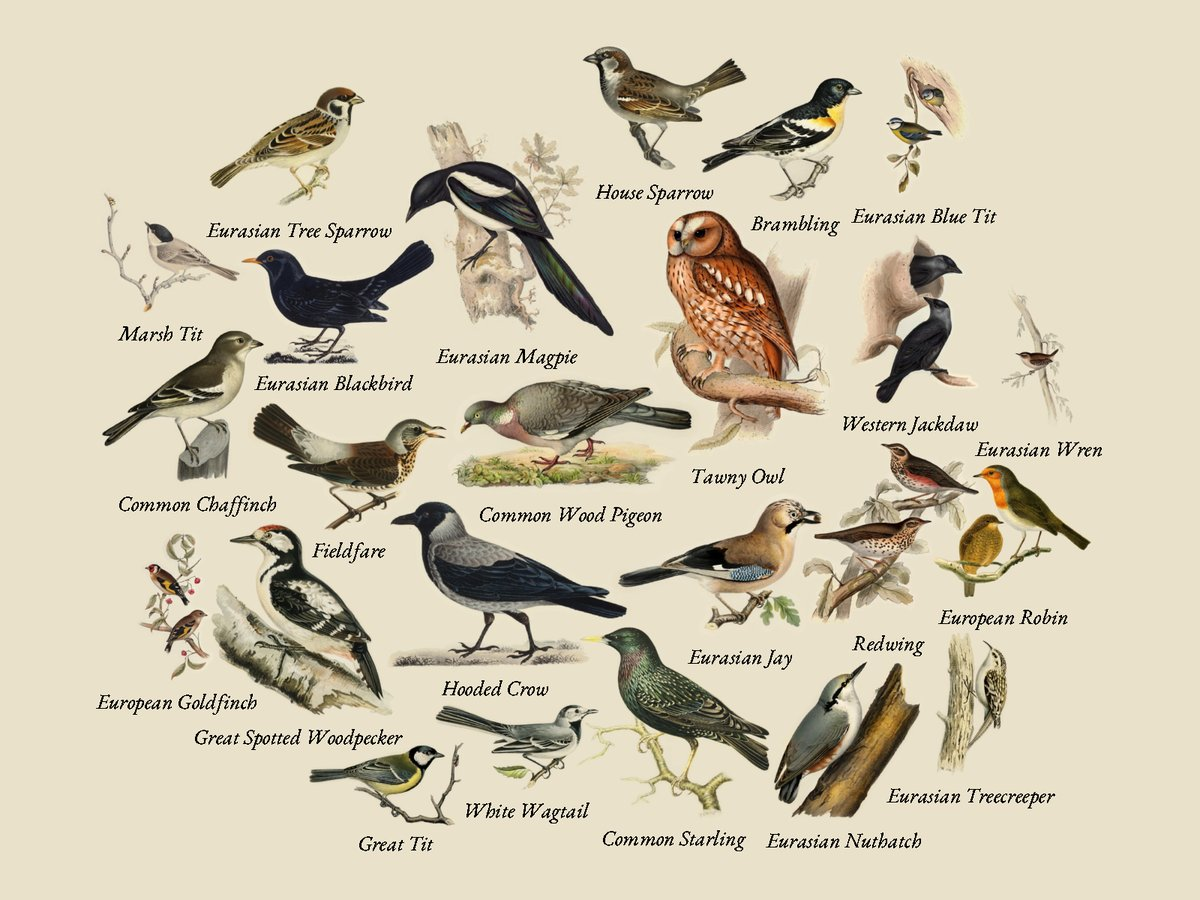
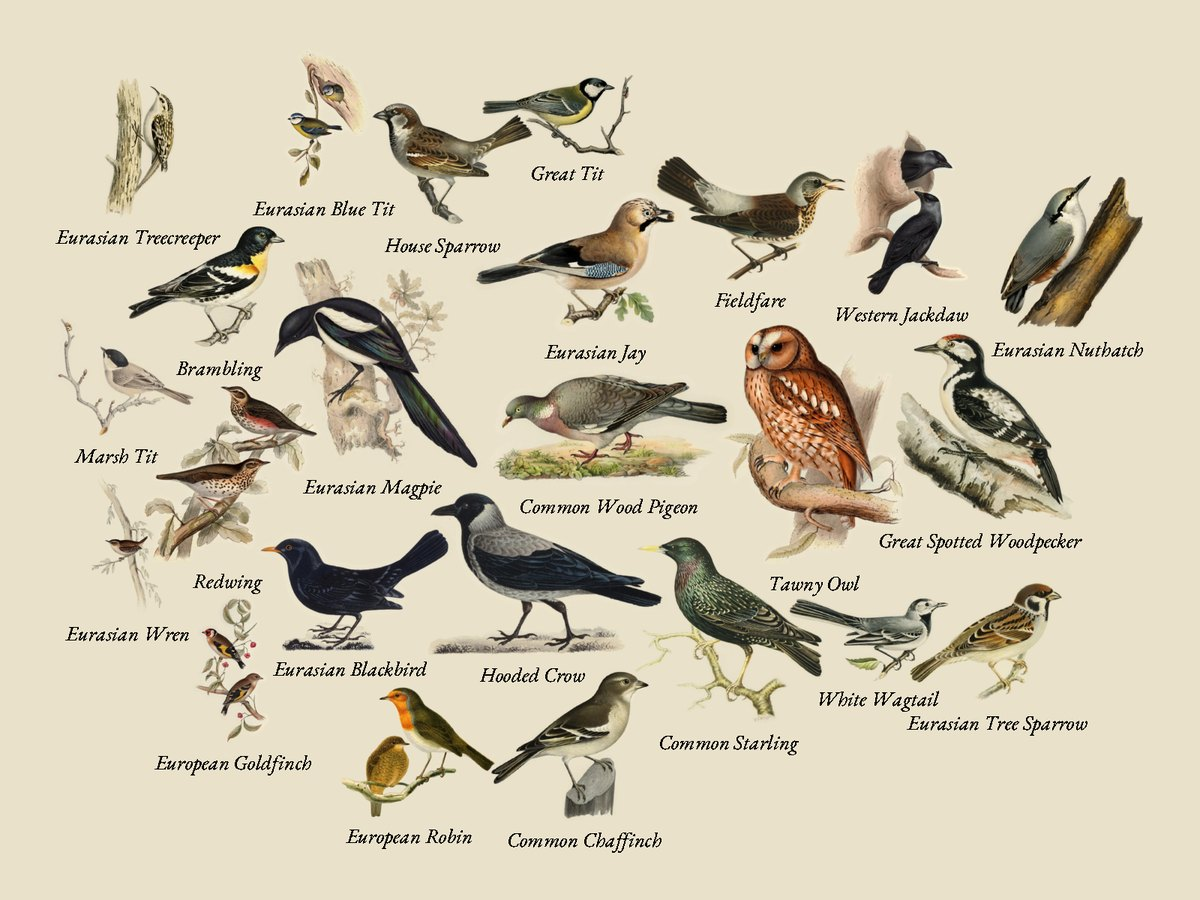
Bring the docs up to date and take new screenshots
README status, crate table, configuration and install sections; the
private-mode how-to; QUIET_HOURS, BIRDNET_PASSWORD and the panel crates
across the reference and explanation pages; the packing steps and
diagram for the elliptical spiral and the size search; AGENTS.md. New
docs/images from the current build, classic plates and generated birds.

Claude-Session: https://claude.ai/code/session_01JrPyafLVQpnyXXJpqfpSwF

diff --git a/README.md b/README.md
@@ -4,17 +4,19 @@ A low-power e-ink bird frame for [BirdNET-Go](https://github.com/tphakala/birdne
 Rust server reads your BirdNET-Go API and renders the birds heard in your garden. An ESP32 board
 then shows the result on a 13.3" six-colour e-ink panel and runs on battery for months.
 
-> **Status:** early development. The server runs and serves the illustrated collage (or a text
-> list) that the panel can show, drawn with fugleramme's 1800s plates when you fetch them, or
-> with generated birds out of the box. The Rust ESP32 firmware comes next; until then,
-> fugleramme's MicroPython EE02 firmware needs a few lines changed to read `/panel` (see
-> [Show the page on an EE02](docs/how-to/show-on-ee02.md)).
+> **Status:** early development. The server is done: it serves the illustrated collage (or a
+> text list), drawn with fugleramme's 1800s plates when you fetch them or with generated birds
+> out of the box, logs in to a private BirdNET-Go, and installs on Unraid from a template. On the
+> panel side, the driver for the 13.3" panel and the logic of each wake are written and tested
+> against mocks and the real server; the ESP32 app that ties them to Wi-Fi and the board comes
+> next and needs the hardware to prove. Until then, fugleramme's MicroPython EE02 firmware needs a
+> few lines changed to read `/panel` (see [Show the page on an EE02](docs/how-to/show-on-ee02.md)).
 
 ![The collage with fugleramme's classic plates](docs/images/collage-classic.jpg)
 
 *The page as it hangs, from the simulated garden with `ART_DIR` set to fugleramme's `classic`
 style. Birds are packed by their outlines outwards from the middle, heavier birds bigger, as
-fugleramme does. Artwork: 1800s plates curated and edited by
+fugleramme does, and sized as big as the page allows so the cluster reaches its corners. Artwork: 1800s plates curated and edited by
 [fugleramme](https://github.com/arnegiacomo/fugleramme), CC BY-SA 4.0 (sources in each style's
 `ATTRIBUTION.md`).*
 
@@ -113,16 +115,16 @@ driving the panel, or on the ESP32 itself.
 | `crates/frame-core` | `no_std`: inks, panel geometry, the controllers' byte layout, CRC-32, a zlib inflater | Done; pixel bytes match fugleramme's |
 | `crates/lite-json` | `no_std` + `alloc`: a small JSON reader, in place of serde | Done |
 | `crates/birdnet-model` | `no_std` + `alloc`: BirdNET-Go response types | Done |
-| `crates/birdnet-client` | `no_std` + `alloc`: API client, generic over an `HttpTransport` | Done (no private-mode login yet) |
-| `crates/birdnet-mock` | `no_std` + `alloc`: simulated BirdNET-Go and an in-process transport | Done |
-| `crates/lan-http` | Plain HTTP/1.1 GET client and small server (std only) | Done |
+| `crates/birdnet-client` | `no_std` + `alloc`: API client, generic over an `HttpTransport`, with BirdNET-Go's password login | Done |
+| `crates/birdnet-mock` | `no_std` + `alloc`: simulated BirdNET-Go (private mode and login included) and an in-process transport | Done |
+| `crates/lan-http` | Plain HTTP/1.1 client and small server (std only) | Done |
 | `crates/transport-lan` | `HttpTransport` for Linux, macOS and Windows | Done |
 | `crates/art-pack` | `no_std` + `alloc`: bird cut-outs, the `.artp` format, the `ArtSource` trait | Done |
 | `crates/art-mock` | `no_std` + `alloc`: generated bird pictures for any species | Done |
 | `crates/art-webp` | fugleramme's art folders: a plate per species per day, paper halo toned and feathered | Done |
 | `crates/page-text` | `no_std` + `alloc`: the page's words in a dozen languages, from a translations JSON | Done |
 | `crates/bird-sizes` | `no_std`: AVONET body masses for the 6,421 species BirdNET detects | Done |
-| `crates/frame-layout` | `no_std` + `alloc`: what goes where; the collage's spiral packing by outline | Collage and text list done |
+| `crates/frame-layout` | `no_std` + `alloc`: what goes where; the collage's spiral packing by outline, out to the page's corners | Collage and text list done |
 | `crates/frame-raster` | `no_std` + `alloc`: draws pictures and text, boosts and dithers to six inks | Done |
 | `crates/frame-http` | Serves `/panel`, `/frame.png`, `/preview.png`; a small zlib compressor for them | Done |
 | `apps/server` | The server for Unraid / Docker | Done |
@@ -130,7 +132,8 @@ driving the panel, or on the ESP32 itself.
 | `crates/panel-t133a01` | `no_std`: the 13.3" panel's two controllers over `embedded-hal` 1.0, tested against a mock bus | Done; untried on hardware |
 | `crates/panel-wake` | `no_std` + `alloc`: each wake's request, unpacking and checking the page, sleep and back-off, RTC state | Done; tested against the real server |
 | `crates/transport-esp`, `tools/art-packer` | ESP32 networking, art on an SD card | Planned |
-| `apps/ee02-thin`, `apps/ee02-standalone`, `apps/linux-panel` | ESP32 and Pi firmware | Planned |
+| `apps/ee02-thin` | ESP32 firmware: Wi-Fi, `panel-wake` and `panel-t133a01` on the EE02 | Next; needs the board |
+| `apps/ee02-standalone`, `apps/linux-panel` | ESP32 that draws its own page; a Raspberry Pi panel | Planned |
 | `assets/` | Fonts, each with its licence and an `ATTRIBUTION.md` | |
 | `deploy/` | Dockerfile, Unraid template | |
 | `scripts/fetch-art.sh` | Downloads a fugleramme art style for `ART_DIR` | |
@@ -143,10 +146,12 @@ The server is configured with environment variables:
 | Variable | Default | Meaning |
 | --- | --- | --- |
 | `BIRDNET_URL` | required | BirdNET-Go base URL, e.g. `http://192.168.1.10:8080`, or `mock` |
+| `BIRDNET_PASSWORD` | unset | BirdNET-Go's password, only when its private mode is on |
 | `LISTEN` | `0.0.0.0:8080` | Address to serve on |
 | `PANEL` | `13.3` | Panel for clients that do not name one: `13.3` or `7.3` |
 | `ROTATION` | `0` | `0`, `90`, `180` or `270`, counter-clockwise from landscape |
 | `POLL_MINUTES` | `15` | How long the panel sleeps between checks (sent as `Cache-Control: max-age` on `/panel`) |
+| `QUIET_HOURS` | unset | Local hours the panel sleeps through in one go, e.g. `22-6` |
 | `WINDOW_HOURS` | `24` | How far back detections count |
 | `UTC_OFFSET_MINUTES` | `0` | Your time zone, for the date range and the "Updated" time |
 | `REFRESH_SECONDS` | `60` | How often the server asks BirdNET-Go for news |
@@ -164,7 +169,10 @@ most panel wakes get a 304. Details, and the translations format, are in
 
 ## Install
 
-**Docker / Unraid.** Images for amd64 and arm64 are published to GitHub Container Registry:
+**Unraid.** Install from the template in [`deploy/unraid`](deploy/unraid/birdnet-go-frame.xml); the
+[Docker and Unraid how-to](docs/how-to/run-in-docker-or-unraid.md) walks through it, plates included.
+
+**Docker.** Images for amd64 and arm64 are published to GitHub Container Registry:
 
 ```bash
 docker run -p 8080:8080 -e BIRDNET_URL=http://192.168.1.10:8080 \
@@ -176,7 +184,7 @@ Fill the art folder once with `scripts/fetch-art.sh classic /mnt/user/appdata/bi
 (or leave out the two art lines for generated birds).
 
 `:edge` follows `main`; version tags (`:0.2.0`, `:0.2`) appear with releases. The image is
-`FROM scratch` with one static binary of about 1.5 MB and runs as an unprivileged user. To build
+`FROM scratch` with one static binary of about 1.7 MB and runs as an unprivileged user. To build
 it yourself: `docker build -f deploy/Dockerfile -t birdnet-go-frame .`
 
 **Binaries.** Each [release](https://github.com/Filip-Pajalic/birdnet-go-frame/releases) has
@@ -186,8 +194,9 @@ Apple silicon) and Windows, with `SHA256SUMS.txt`.
 ## Dependencies
 
 The server uses **eleven third-party crates**: the font rasteriser `fontdue` with its own
-dependencies, and the webp decoder `image-webp` with its two. JSON parsing, HTTP and PNG encoding
-are small, tested modules in this repository. Why, and the rules for adding one: [docs/explanation/dependencies.md](docs/explanation/dependencies.md).
+dependencies, and the webp decoder `image-webp` with its two. The panel side adds one,
+`embedded-hal`, with no dependencies of its own. JSON parsing, HTTP, PNG and zlib are small,
+tested modules in this repository. Why, and the rules for adding one: [docs/explanation/dependencies.md](docs/explanation/dependencies.md).
 `cargo deny` checks licences, advisories and duplicates in CI.
 
 ## Development
@@ -206,7 +215,9 @@ request without secrets: formatting, clippy, tests on Linux, macOS and Windows, 
 version, a bare-metal build of the `no_std` crates, docs and `cargo deny`. Pushing a `v*` tag
 builds the release binaries and the container image.
 
-The ESP32 apps use Espressif's Rust toolchain (`espup install`) and build from their `apps/` folder.
+The ESP32 apps will use Espressif's Rust toolchain (`espup install`) and build from their `apps/`
+folder. The panel crates they build on (`panel-t133a01`, `panel-wake`) already build for bare
+metal in CI and test on any machine.
 
 ### Code style
 

diff --git a/docs/explanation/image-pipeline.md b/docs/explanation/image-pipeline.md
@@ -70,18 +70,21 @@ is set.
    `size_weights` compresses it as fugleramme does: `(mass / geometric mean) ^ 0.14`. A wood
    pigeon comes out about 1.9 times the size of a goldcrest, not 90 times. The weight is then
    multiplied by how much bigger the plate is than its bird.
-2. **Starting size.** The set starts too big:
+2. **Starting size.** The set starts at
    `min(sqrt(page area x 1.5 / sum of weights squared), short side x 0.7 / largest weight)`.
 3. **Footprints.** Each bird's outline (alpha above 24) is resampled to its size, mirrored if a
    hash of its name says so, and shrunk by 2 px so neighbours nestle into each other's invisible
    halos. Its name is joined underneath, centred on the body rather than the box and raised
    until it clears the outline: into the gap beside a leg or under a perch.
 4. **Spiral.** Biggest first, each footprint goes at the first spot on an outward walk from the
-   middle of the page (rings 6 px apart) where no opaque pixel overlaps. Biggest birds land in
-   the middle.
-5. **Shrink.** If any bird does not fit, the whole set shrinks by 10% and packs again. Names
-   shrink with the set; once it fits, names left small beside a few big birds are grown back as
-   far as the packing allows.
+   middle of the page where no opaque pixel overlaps. The walk follows ellipses 6 px apart with
+   the page's own proportions, so the cluster takes the page's shape and reaches into its
+   corners, where circles would leave them bare. Biggest birds land in the middle.
+5. **Find the size.** If any bird does not fit, the whole set shrinks by 10% and packs again.
+   Once it fits, the gap to the size that did not is halved three times, so the birds come out
+   as big as the page allows; a set that fits at once grows by 6% steps instead. Names shrink
+   with the set; at the end, names left small beside a few big birds are grown back as far as
+   the packing allows.
 6. **Centre.** The cluster's bounding box is centred on the page.
 
 The page is packed at a short side of 1200 pixels and scaled, so a page packs the same at every
@@ -89,12 +92,13 @@ resolution.
 
 ```mermaid
 flowchart LR
-    birds["birds<br/>weight x span ratio"] --> size["start too big"]
+    birds["birds<br/>weight x span ratio"] --> size["starting size"]
     size --> foot["outline + name<br/>as one footprint"]
-    foot --> spiral["spiral out from the middle,<br/>biggest first"]
+    foot --> spiral["elliptical spiral out from<br/>the middle, biggest first"]
     spiral -->|"a bird did not fit"| shrink["shrink 10%"]
     shrink --> foot
-    spiral -->|"all fit"| centre["centre the cluster"]
+    spiral -->|"all fit"| refine["halve the gap to the size<br/>that did not fit, 3 times"]
+    refine --> centre["centre the cluster"]
 ```
 
 ### The list (`LAYOUT=list`)

diff --git a/docs/how-to/connect-birdnet-go.md b/docs/how-to/connect-birdnet-go.md
@@ -8,8 +8,8 @@
    curl "http://192.168.1.10:8080/api/v2/detections/recent?limit=1"
    ```
 
-   You should get a JSON list. A `401` means BirdNET-Go's private mode is on, which the server
-   does not support yet; turn it off or allow your LAN in BirdNET-Go's security settings.
+   You should get a JSON list. A `401` means BirdNET-Go's private mode is on: see
+   [If BirdNET-Go is private](#if-birdnet-go-is-private).
 3. Start the server with the address and your time zone (minutes east of UTC):
 
    ```bash
@@ -20,5 +20,28 @@
 
 If BirdNET-Go is unreachable at start-up, the page says "Cannot reach BirdNET-Go" with the reason
 in its footer. Once a real page has been drawn, it stays up through later outages.
+
+## If BirdNET-Go is private
+
+With `security.privatemode` on, BirdNET-Go answers `401` until a client logs in. Either:
+
+- **Let the server log in.** With BirdNET-Go's password login on (`security.basicauth`), give
+  the server its password:
+
+  ```bash
+  BIRDNET_URL=http://192.168.1.10:8080 BIRDNET_PASSWORD='your password' birdnet-go-frame
+  ```
+
+  The server logs in the way BirdNET-Go's own page does, keeps the session, and logs in again
+  when the session expires. `BIRDNET_USERNAME` defaults to `admin`; the password login takes any
+  name. With a wrong password the server logs "BirdNET-Go refused the login: check
+  BIRDNET_PASSWORD", and so does the page if none has been drawn yet.
+- **Or let your LAN in without a login.** BirdNET-Go's subnet bypass
+  (`security.allowsubnetbypass` with your LAN's subnet, e.g. `192.168.1.0/24`) admits requests
+  from that subnet. On Unraid, the frame's container must then reach BirdNET-Go from an address
+  in that subnet, e.g. through the host's IP.
+
+Logging in with Google or GitHub (BirdNET-Go's social logins) is not supported: those need a
+browser.
 
 See [Configuration](../reference/configuration.md) for every setting.

diff --git a/docs/reference/configuration.md b/docs/reference/configuration.md
@@ -5,10 +5,13 @@ The server reads environment variables at start-up.
 | Variable | Default | Type | Meaning |
 | --- | --- | --- | --- |
 | `BIRDNET_URL` | required | URL or `mock` | BirdNET-Go base URL, e.g. `http://192.168.1.10:8080`. `mock` uses the built-in simulated station. |
+| `BIRDNET_PASSWORD` | unset | text | BirdNET-Go's password, when its private mode is on; the server logs in with it. See [If BirdNET-Go is private](../how-to/connect-birdnet-go.md#if-birdnet-go-is-private). Never printed. |
+| `BIRDNET_USERNAME` | `admin` | text | The name sent with `BIRDNET_PASSWORD`; BirdNET-Go's password login takes any. |
 | `LISTEN` | `0.0.0.0:8080` | address | Where the server listens. |
 | `PANEL` | `13.3` | `13.3` or `7.3` | The panel served to clients that do not name one. Clients can ask for another panel or any screen size per request; see [HTTP endpoints](http-endpoints.md#sizes). |
 | `ROTATION` | `0` | `0`, `90`, `180`, `270` | How the panel hangs, counter-clockwise from native landscape, for clients that do not say. `90` and `270` are portrait (1200x1600 on the 13.3"). |
 | `POLL_MINUTES` | `15` | 0 to 255 | Minutes the panel sleeps between checks, sent as `Cache-Control: max-age` on `/panel`. `0` sends `no-cache`: as soon as the panel likes. |
+| `QUIET_HOURS` | unset | `start-end`, hours | Local hours, e.g. `22-6`, that a panel sleeps through in one go: a panel asking during them is told to sleep until they end. Uses `UTC_OFFSET_MINUTES`. |
 | `WINDOW_HOURS` | `24` | hours | How far back detections count. Rounded outwards to whole days, as BirdNET-Go's summary takes dates. |
 | `UTC_OFFSET_MINUTES` | `0` | minutes | The garden's time zone, minutes east of UTC. Used for the date range and the "Updated" time. Not adjusted for daylight saving. |
 | `REFRESH_SECONDS` | `60` | seconds | How often the server asks BirdNET-Go for news. |

diff --git a/AGENTS.md b/AGENTS.md
@@ -22,19 +22,20 @@ and [`docs/explanation/image-pipeline.md`](docs/explanation/image-pipeline.md) e
   `frame-http`, `art-webp`). Keep it that way: the same code must compile for the ESP32, and CI builds those
   crates for a bare-metal target. Do not add `std` to `frame-core`, `birdnet-model`,
   `birdnet-client`, `birdnet-mock`, `lite-json`, `art-pack`, `art-mock`, `bird-sizes`,
-  `page-text`, `frame-layout` or `frame-raster`. `art-webp` is `std` (it reads folders) and is the
+  `page-text`, `frame-layout`, `frame-raster`, `panel-t133a01` or `panel-wake`. `art-webp` is `std` (it reads folders) and is the
   only crate that decodes images.
-- Platform differences go behind small generic traits (`HttpTransport`, `ArtSource`, later
-  `embedded-hal`),
+- Platform differences go behind small generic traits (`HttpTransport`, `ArtSource`,
+  `embedded-hal`'s SPI, pin and delay traits),
   not `cfg` branches inside libraries. Prefer generics over `dyn`.
 - See [`docs/reference/crates.md`](docs/reference/crates.md) for what each crate owns.
 
 ## Dependencies
 
-The server has eight third-party crates, all from `fontdue`. Do not add one without a strong
-reason: read [`docs/explanation/dependencies.md`](docs/explanation/dependencies.md), turn off
-default features, add a row there, and make sure `cargo deny check` passes. Small jobs (JSON,
-HTTP, PNG) are done in-repo on purpose.
+The server has eleven third-party crates (`fontdue` and `image-webp` with their own); the panel
+side adds `embedded-hal`. Do not add one without a strong reason: read
+[`docs/explanation/dependencies.md`](docs/explanation/dependencies.md), turn off default
+features, add a row there, and make sure `cargo deny check` passes. Small jobs (JSON, HTTP, PNG,
+zlib both ways) are done in-repo on purpose.
 
 ## Commands
 

diff --git a/docs/explanation/power-and-refresh.md b/docs/explanation/power-and-refresh.md
@@ -17,7 +17,7 @@ flowchart LR
 - Most wakes end at the 304: the server only changes the page when the set of species changes.
 - A real redraw is dominated by the panel refresh, which takes about 20 to 30 seconds.
 - Joining Wi-Fi is the biggest cost of a 304 wake. Remembering the access point, channel and a
-  static IP makes it much faster (planned for the firmware).
+  static IP makes it much faster (for the firmware app, `apps/ee02-thin`).
 
 The figures in this page are rough estimates until the power milestone measures them.
 
@@ -34,7 +34,9 @@ So the panel polls, and the server makes polling cheap:
 | --- | --- | --- |
 | ETag and 304 | server | An unchanged page costs a few hundred bytes |
 | Redraw only on a new species set | server | Most polls are unchanged |
-| Poll interval as `Cache-Control: max-age` | server | `POLL_MINUTES` tells the panel when to come back; the server can lengthen it at night (planned) |
+| Poll interval as `Cache-Control: max-age` | server | `POLL_MINUTES` tells the panel when to come back |
+| Quiet hours | server | With `QUIET_HOURS=22-6`, a panel asking at 22:00 is told to sleep until 06:00: one wake instead of 32 |
+| Back-off after failures | panel | `panel-wake` doubles the sleep after each failed wake in a row (5 minutes up to 12 hours), so a server that is down does not drain the battery |
 | zlib-compressed page | server | A new page moves about a quarter of the bytes |
 | Length and Adler-32 checked before refresh | panel | A damaged or mismatched download never reaches the glass |
 | Wi-Fi off during refresh | panel | The radio is only on while it is needed |

diff --git a/docs/explanation/design-decisions.md b/docs/explanation/design-decisions.md
@@ -63,7 +63,7 @@ places:
 | --- | --- |
 | `HttpTransport` (`birdnet-client`) | Desktop networking (`transport-lan`), the simulated station (`birdnet-mock`), or ESP32 networking (planned) |
 | `ArtSource` (`art-pack`) | Where bird pictures come from: generated (`art-mock`), fugleramme's webp folders (`art-webp`), or an SD card (planned) |
-| `embedded-hal` 1.0 traits (planned, `panel-t133a01`) | Which board drives the panel: ESP32 or a Raspberry Pi |
+| `embedded-hal` 1.0 traits (`panel-t133a01`) | Which board drives the panel: ESP32, a Raspberry Pi, or the mock bus in its tests |
 
 ## `no_std` wherever possible
 
@@ -96,8 +96,9 @@ otherwise make up most of the binary. `lan-http` speaks just enough HTTP/1.1 for
 
 ## Few dependencies
 
-Eight third-party crates, all for font rendering. JSON, HTTP and PNG are small modules in this
-repository instead. See [Dependencies](dependencies.md).
+Eleven third-party crates in the server: font rendering and the webp decoder. The panel side
+adds `embedded-hal`. JSON, HTTP, PNG and zlib (both ways) are small modules in this repository
+instead. See [Dependencies](dependencies.md).
 
 ## Code style
 

diff --git a/docs/explanation/architecture.md b/docs/explanation/architecture.md
@@ -29,7 +29,7 @@ flowchart LR
 | --- | --- | --- |
 | BirdNET-Go | Unraid | Detects birds from audio. birdnet-go-frame only reads its HTTP API. |
 | Server (`apps/server`) | Unraid | Polls BirdNET-Go, redraws the page when the set of species changes, serves it. |
-| Panel firmware | ESP32-S3 | Wakes on a timer, asks for the page with its ETag, redraws only on a change, sleeps. |
+| Panel firmware | ESP32-S3 | Wakes on a timer, asks for the page with its ETag, redraws only on a change, sleeps. Built from `panel-wake` (what to ask, what to do with the answer, how long to sleep) and `panel-t133a01` (the panel's controllers); the app around them is next. |
 
 ## One cycle, step by step
 

diff --git a/docs/reference/crates.md b/docs/reference/crates.md
@@ -29,8 +29,8 @@
 
 | Crate or app | Purpose |
 | --- | --- |
-| `transport-esp` | `HttpTransport` and Wi-Fi on `esp-idf-svc` |
-| `apps/ee02-thin` | ESP32 firmware that fetches `/panel` |
+| `transport-esp` | `HttpTransport` and Wi-Fi for the ESP32 |
+| `apps/ee02-thin` | ESP32 firmware that fetches `/panel`: Wi-Fi and deep sleep around `panel-wake` and `panel-t133a01` |
 | `apps/ee02-standalone` | ESP32 firmware that renders the page itself |
 | `apps/linux-panel` | Raspberry Pi that renders and drives the panel |
 | `tools/art-packer` | Converts fugleramme's webp art to `.artp`, so the ESP32 can read plates from an SD card |
